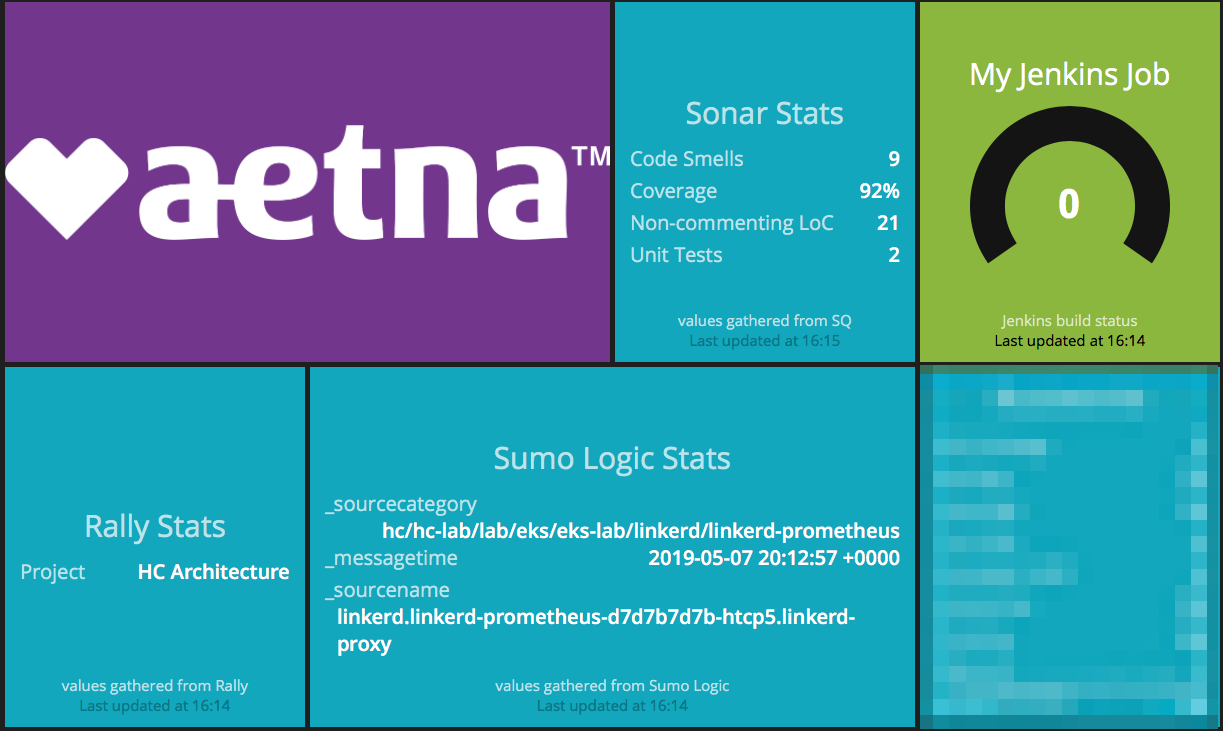
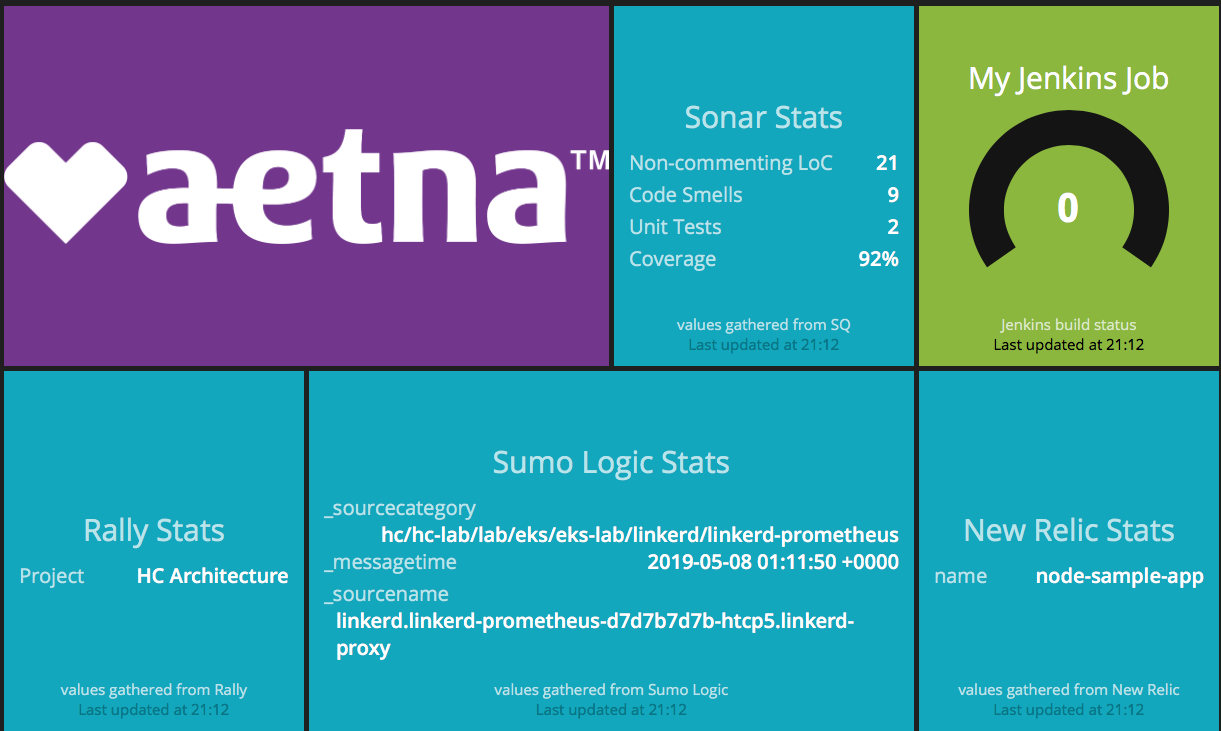
Add New Relic widget.

diff --git a/smashing/widgets/newrelic/newrelic.scss b/smashing/widgets/newrelic/newrelic.scss
@@ -1,0 +1,60 @@
+// ----------------------------------------------------------------------------
+// Sass declarations
+// ----------------------------------------------------------------------------
+$background-color:  #12b0c5;
+$value-color:       #fff;
+
+$title-color:       rgba(255, 255, 255, 0.7);
+$label-color:       rgba(255, 255, 255, 0.7);
+$moreinfo-color:    rgba(255, 255, 255, 0.7);
+
+// ----------------------------------------------------------------------------
+// Widget-newrelic styles
+// ----------------------------------------------------------------------------
+.newrelic {
+
+  background-color: $background-color;
+  vertical-align: top;
+
+  .title {
+    color: $title-color;
+  }
+
+  ol, ul {
+    margin: 0 15px;
+    text-align: left;
+    color: $label-color;
+  }
+
+  ol {
+    list-style-position: inside;
+  }
+
+  li {
+    margin-bottom: 5px;
+  }
+
+  .newrelic-nostyle {
+    list-style: none;
+  }
+
+  .label {
+    color: $label-color;
+  }
+
+  .value {
+    float: right;
+    margin-left: 12px;
+    font-weight: 600;
+    color: $value-color;
+  }
+
+  .updated-at {
+    color: rgba(0, 0, 0, 0.3);
+  }
+
+  .more-info {
+    color: $moreinfo-color;
+  }
+
+}

diff --git a/smashing/widgets/newrelic/newrelic.html b/smashing/widgets/newrelic/newrelic.html
@@ -1,0 +1,18 @@
+<h1 class="title" data-bind="title"></h1>
+
+<ol>
+  <li data-foreach-item="items">
+    <span class="label" data-bind="item.label"></span>
+    <span class="value" data-bind="item.value"></span>
+  </li>
+</ol>
+
+<ul class="newrelic-nostyle">
+  <li data-foreach-item="items">
+    <span class="label" data-bind="item.label"></span>
+    <span class="value" data-bind="item.value"></span>
+  </li>
+</ul>
+
+<p class="more-info" data-bind="moreinfo"></p>
+<p class="updated-at" data-bind="updatedAtMessage"></p>

diff --git a/smashing/jobs/newrelic.rb b/smashing/jobs/newrelic.rb
@@ -1,0 +1,45 @@
+require 'net/http'
+require 'json'
+require 'time'
+require "yaml"
+
+puts 'Initializing newrelic widget...'
+STDOUT.flush
+
+newrelic_addr = 'api.newrelic.com'
+
+newrelic_credentials = YAML.load_file("widgets/newrelic/newrelic.credentials")
+
+newrelic_stat = Hash.new({ value: 0 })
+newrelic_health = 'danger'
+
+NEWRELIC_URI = URI.parse("https://" + newrelic_addr)
+
+SCHEDULER.every '10s', :first_in => 0 do |job|
+  http = Net::HTTP.new(NEWRELIC_URI.host, NEWRELIC_URI.port)
+  http.use_ssl = true
+
+  request = Net::HTTP::Get.new("/v2/applications.json")
+
+  request["X-Api-Key"] = newrelic_credentials["newrelic_rest_api_key"]
+
+  begin
+    response = http.request(request)
+    response_json = JSON.parse(response.body)
+
+    if response_json.has_key? "applications"
+      newrelic_stat["name"] = { label: "name", value: response_json["applications"][0]["name"] }
+    end
+
+    send_event('newrelic', { items: newrelic_stat.values })
+
+    newrelic_health = "ok"
+
+    send_event('newrelic', { newrelicHealth: newrelic_health })
+  rescue SystemCallError
+    newrelic_health = "danger"
+
+    send_event('newrelic', { newrelicHealth: newrelic_health })
+  end
+
+end

diff --git a/README.md b/README.md
@@ -126,6 +126,10 @@ This will create a 'jenkins_home' Docker volume on the host machine that will su
 1. Copy `smashing/widgets/sumologic/sumologic.credentials.template` to `smashing/widgets/sumologic/sumologic.credentials` and change the API access ID and key in that file to use valid Sumo Logic API credentials.
 1. Rebuild and re-run the dashboard container. The widget's background should eventually change to the default widget background, currently a solid (no flashing) light blue. This indicates a healthy connection to Sumo Logic. Unhealthy connections will change the background to use the style `status-warning` or `status-danger` as defined in the default CSS. These styles usually include "alarming" colors like red and yellow, and include a flashing behavior to grab the user's attention.
 
+# How to get the New Relic widget working
+1. Copy `smashing/widgets/newrelic/newrelic.credentials.template` to `smashing/widgets/newrelic/newrelic.credentials` and change the REST API Key in that file to use a valid New Relic REST API key.
+1. Rebuild and re-run the dashboard container. The widget's background should eventually change to the default widget background, currently a solid (no flashing) light blue. This indicates a healthy connection to New Relic. Unhealthy connections will change the background to use the style `status-warning` or `status-danger` as defined in the default CSS. These styles usually include "alarming" colors like red and yellow, and include a flashing behavior to grab the user's attention.
+
 # Reference
 * Smashing: https://smashing.github.io
 * SonarQube latest documentation: https://docs.sonarqube.org/latest/
@@ -134,3 +138,4 @@ This will create a 'jenkins_home' Docker volume on the host machine that will su
 * Jenkins Docker documentation: https://github.com/jenkinsci/docker/blob/master/README.md
 * Jenkins widget: https://gist.github.com/mavimo/6334816
 * Sumo Logic APIs: https://help.sumologic.com/APIs
+* New Relic API Explorer: https://rpm.newrelic.com/api/explore/
